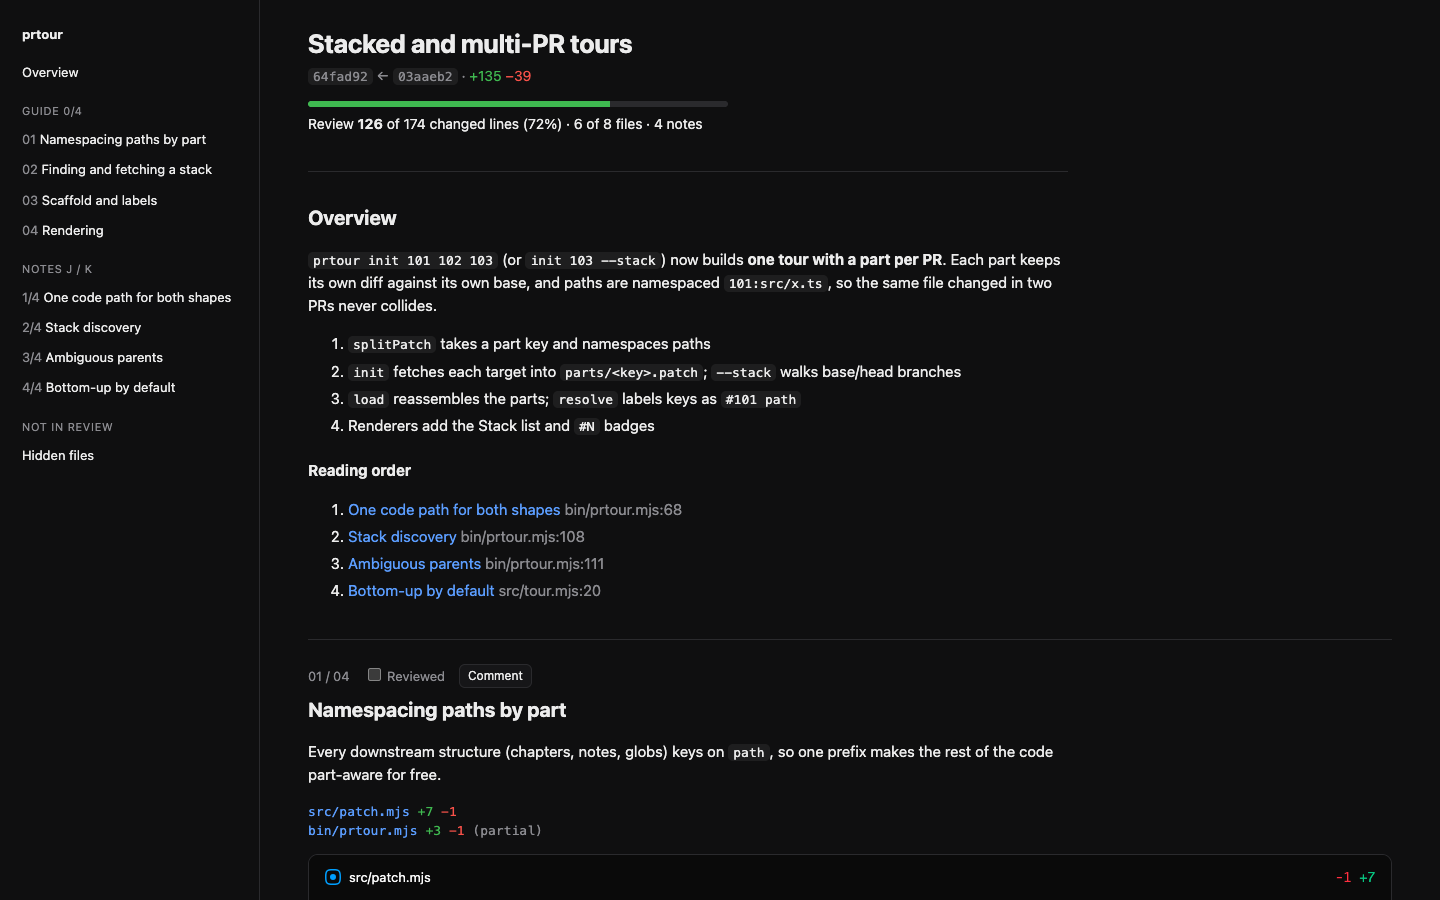
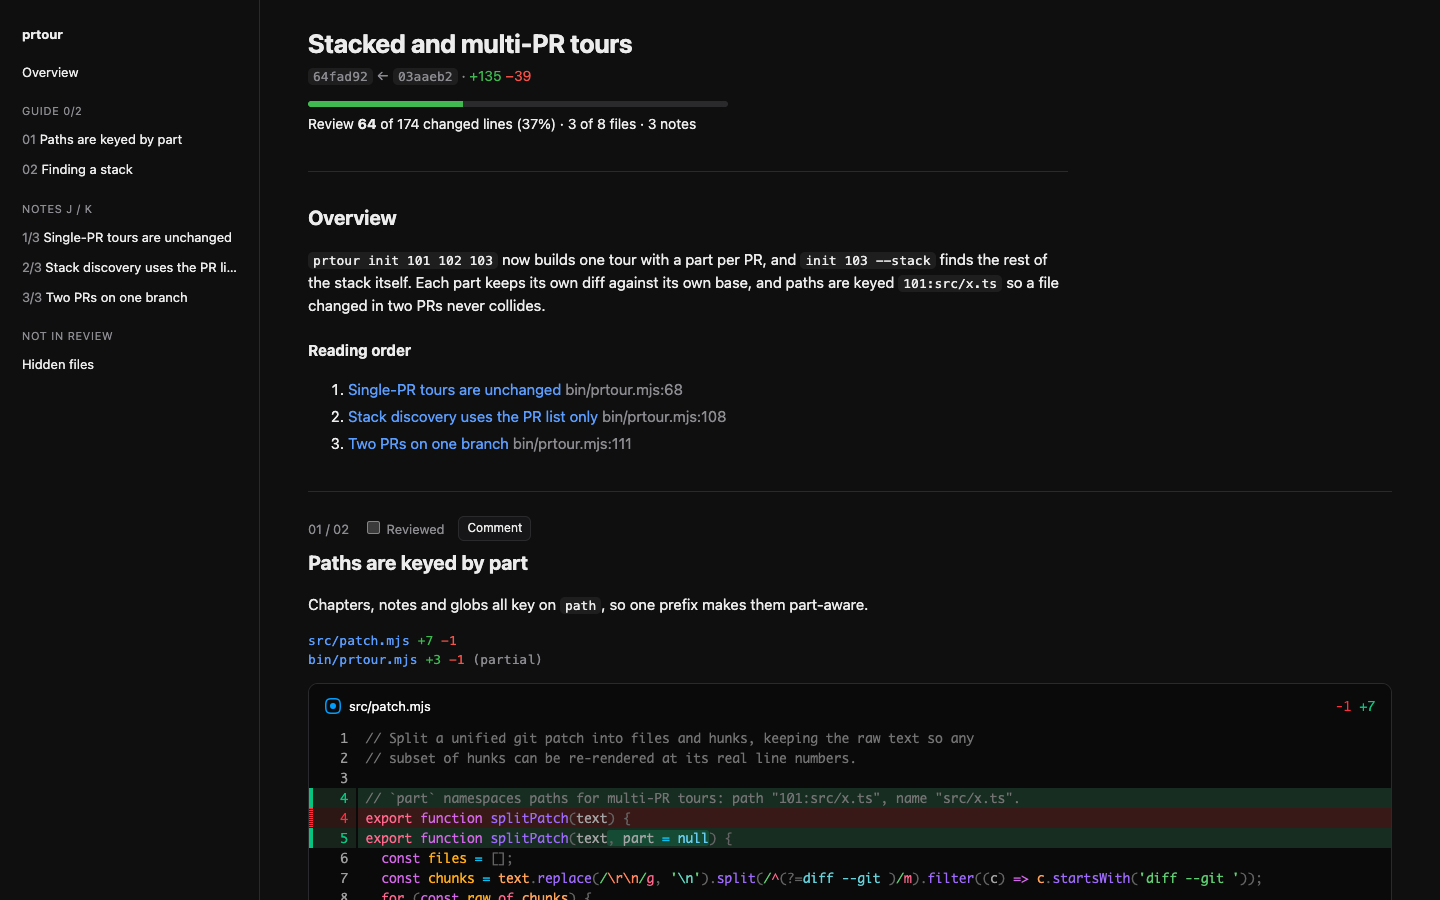
Review for alignment, not walkthrough: budget (8 notes/5 chapters/400 lines), Sprout writing lint in check, rewritten skill guidance

diff --git a/SKILL.md b/SKILL.md
@@ -29,29 +29,71 @@ renders it. Run it with `npx -y prtour@latest <command>` (no install needed).
      not write into the repo. Every later command takes that folder as its
      first argument or as `--dir`. With no folder given, commands use the
      newest tour under `.prtour/`.
-2. **Read the diff** (`.prtour/<slug>/diff.patch`) and decide what a careful
-   maintainer must review. **Show** core data layouts, non-trivial algorithms,
-   control flow, public APIs, schema changes, security and money paths. **Hide**
-   tests, constructors, trivial accessors, mechanical renames, small helpers,
-   generated files, lockfiles and snapshots. These stay in the PR, and the page
-   lists them as not in review.
-3. **Write `tour.json`** (schema below). Order chapters by idea, not by directory:
-   data shapes first, then the flow through the algorithms, and supporting
-   changes last. If one file mixes core and boilerplate, list only its core hunks
-   with `{"path": "...", "hunks": [0, 3]}`. One file can be split across
-   chapters this way, and each hunk shows only once. A later plain or glob
-   entry for the same file takes the hunks that are left.
+2. **Pick what a human must align on.** The page is not a code walkthrough.
+   The reader trusts the tests and the agent for gruntwork. They want to see
+   the decisions they might disagree with, and nothing else. Show only:
+   - the shape of new data, APIs and contracts (schemas, types other code
+     depends on, wire formats);
+   - decisions with a real alternative, where a reviewer could say "no, do it
+     the other way";
+   - behavior that users or other systems will notice;
+   - risk: access control, data loss, migrations, concurrency, money, and
+     anything you suspect is a bug.
+
+   Hide everything that follows from those decisions, even in core files:
+   wiring, plumbing, handlers that call the function you already showed, UI
+   that renders what the server decided, client mirrors of server checks,
+   validation boilerplate, moved or renamed code, helpers, tests, and
+   generated files. Hidden code stays in the PR, and the page lists it as not
+   in review.
+
+   **Budget:** at most 8 notes, 5 chapters and 400 shown lines, whatever the
+   size of the PR. For most PRs, 3–5 notes and 100–250 lines are right.
+   `check` fails over budget. If a PR truly needs more, set
+   `"allowLarge": "<one sentence on why>"`.
+3. **Write `tour.json`** (schema below). Order chapters by decision, not by
+   directory. To show part of a file, list its hunks with
+   `{"path": "...", "hunks": [0, 3]}`. One file can be split across chapters
+   this way, and each hunk shows only once.
    `npx prtour hunks <path-substring> --lines` prints each hunk's index and
    line range, and every line with its old and new line numbers. Use it to
    pick hunks and to anchor notes; don't count lines by hand.
-4. **Annotate.** Add one note per stop in `notes`, in reading order (they are
-   numbered `1/N`, `2/N`, …, so put them in chapter order). Anchor each note to a line that is in a shown
-   hunk: `line` is the new-file line number, or the old one with
-   `"side": "old"` for a deleted line. Say why the code is shaped this way,
-   what could break, and what to check. Don't restate the code.
+4. **Annotate.** Add one note per decision or risk, in reading order (notes
+   are numbered `1/N` in array order, so keep them in chapter order). Anchor
+   each note to a shown line: `line` is the new-file line number, or the old
+   one with `"side": "old"`. A note says what the reviewer should decide or
+   check, and why, in one to three sentences. Don't narrate what the code
+   does. If you suspect a bug, say so in the note's first words.
+
+## Writing
+
+The reviewer is a peer reading fast. Write plainly, in the codebase's own
+terms.
+
+- The summary is two or three sentences: what changed and why.
+- A chapter body is one or two sentences. A note body is one to three.
+  `check` enforces the lengths.
+- Use plain sentences of varied length. Don't use bold, em dashes, `->` in
+  prose, or lists of fragments.
+- Don't signpost ("Where to spend review time:", "The key thing is"). Don't
+  write "it's not X, it's Y" or "not just X but Y". Don't answer your own
+  question ("The result? A leak."). Don't add a summary or moral at the end.
+- Drop trailing "-ing" clauses that claim importance (", ensuring safety").
+  Write "is", not "serves as". Cut "additionally", "moreover", "notably",
+  "ultimately".
+- Don't use delve, pivotal, crucial, robust, leverage, seamless, landscape,
+  or the adverbs quietly, deeply and truly.
+- Put code identifiers in backticks. Text inside backticks isn't linted.
+- End on the last concrete point.
+
+`check` runs a lint for these tells (ported from Sprout) on every text field
+and reports each hit with a fix.
+
 5. **Check.** Run `npx prtour check`. It exits 1 and names the problem when a
-   file is unplaced, a path is wrong, or a note points at a line that isn't
-   shown. Fix it until the check is clean.
+   file is unplaced, a path is wrong, a note points at a line that isn't
+   shown, the tour is over budget, or the writing trips the lint. Fix it until
+   the check is clean. Don't rephrase just to dodge the lint; write the
+   sentence plainly.
 6. **Deliver**, depending on where you are:
    - Local with a human: `npx prtour open` serves the page with live reload.
      Every save of `tour.json` refreshes the page. Comments the reviewer leaves
@@ -72,23 +114,24 @@ renders it. Run it with `npx -y prtour@latest <command>` (no install needed).
   "title": "feat: pass through hosts whose clients refuse our cert",
   "url": "https://github.com/o/r/pull/24", "number": 24, "author": "me",
   "base": "main", "head": "issue-24",
-  "summary": "What changed and why, 1-2 short paragraphs. Markdown: `code`, **bold**, lists, links.",
-  "steps": ["Short end-to-end flow of the change", "3-6 steps"],
+  "summary": "Hosts whose clients reject our certificate now pass through untouched. The proxy replays the `ClientHello` upstream and splices the two sockets.",
+  "steps": ["Optional: 2-4 short steps of the flow, only if the summary can't carry it"],
   "chapters": [
     { "title": "Record a passthrough on the connection",
-      "body": "1-3 plain sentences for a reviewer who hasn't seen the diff.",
+      "body": "A passthrough is its own type on `Connection`, not a variant of `Tunnel`.",
       "files": ["crates/core/src/connection.rs", { "path": "crates/proxy/src/connect.rs", "hunks": [1, 2] }] }
   ],
   "notes": [
     { "file": "crates/core/src/connection.rs", "line": 55, "title": "The relay's record",
-      "body": "Mirrors Tunnel's shape but is its own type; bytes_up includes the replayed ClientHello." },
-    { "file": "crates/proxy/src/connect.rs", "line": 88, "side": "old", "body": "Removed fallback: …" }
+      "body": "`bytes_up` counts the replayed `ClientHello`, so a relay that dies right after dialing still shows what it sent. Check that billing reads this the same way." },
+    { "file": "crates/proxy/src/connect.rs", "line": 88, "side": "old", "title": "Likely bug: fallback removed",
+      "body": "Clients that refuse the cert used to retry over plain HTTP here. Nothing replaces that path." }
   ],
   "hidden": [
     { "reason": "Tests", "files": ["**/*_test.rs", "tests/**"] },
     { "reason": "Small helpers and accessors", "files": ["crates/core/src/util.rs"] }
   ],
-  "skipped": "Manifests: adds `rustls 0.23` to faim-proxy; enables the `ring` feature."
+  "skipped": "Adds `rustls 0.23` to faim-proxy with the `ring` feature."
 }
 ```
 
@@ -97,6 +140,8 @@ renders it. Run it with `npx -y prtour@latest <command>` (no install needed).
   in an "Unsorted" chapter with a warning.
 - Notes on files outside every chapter, or on lines outside the shown hunks,
   get a warning and are shown at the top of the file.
+- `allowLarge` (optional) is shown on the page as the reason the tour is over
+  budget.
 - `description`, `repo` and `parts` come from `init` and are context for you;
   only `parts` is rendered (as the Stack list). Leave them in place.
 - Re-running `init` refreshes `diff.patch` and keeps your `tour.json`; add
